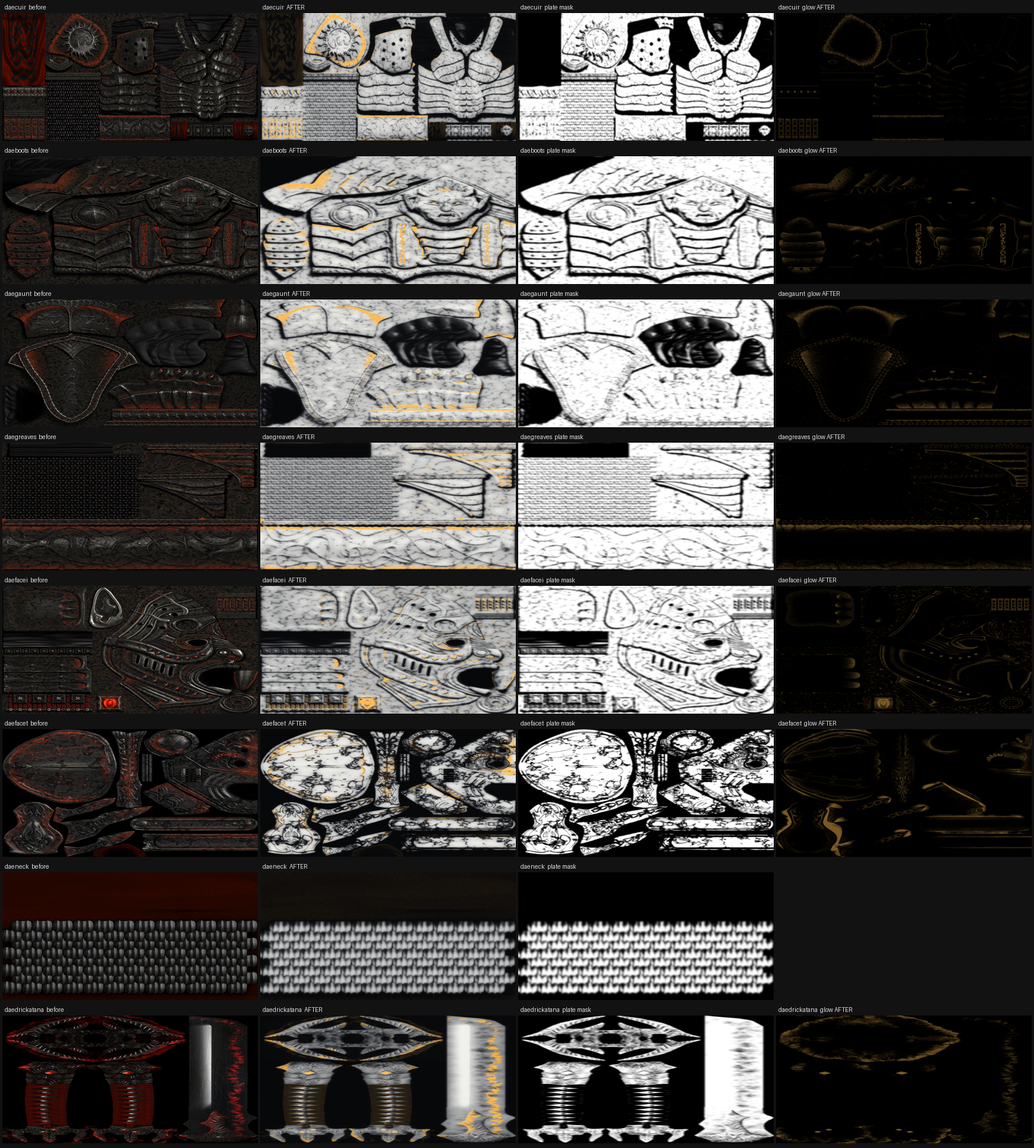
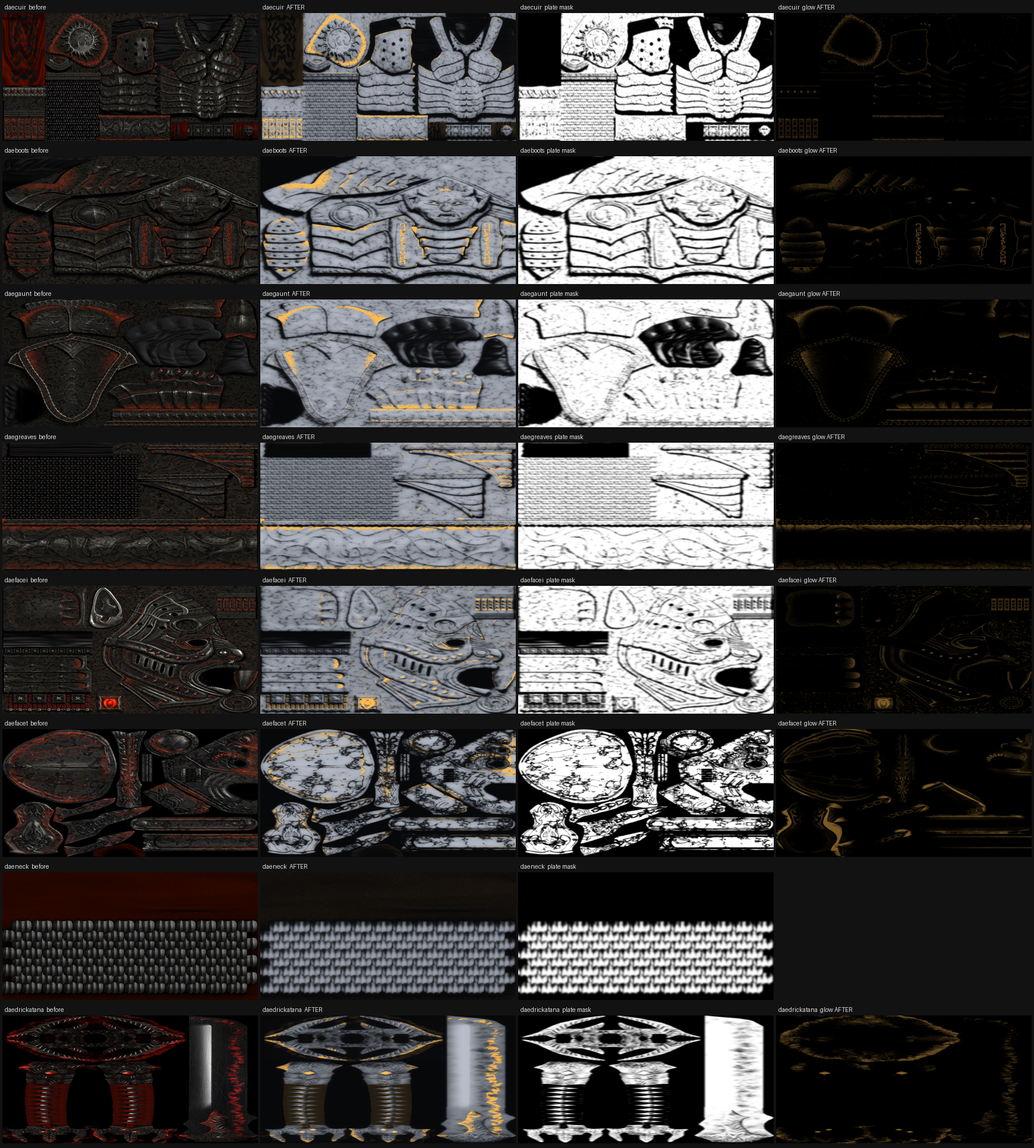
Silver rather than bone white
Faig's correction after seeing the first pass in game: the colour of
his reference render, a bit more silvery. So the plate drops from 0.95
to 0.72 and the blue channel leads, which is what separates silver from
white paint. Rendered the strip at 0.95 / 0.83 / 0.72 / 0.60 first;
this is the third, and his own pick may move it a step either way.

The ribs he asked about were already there - the abdominal segments and
the dark seams the plate mask puts between them. Nothing to add.

Changed region(s): [[0.2483, 0.0, 0.4966, 0.7453], [0.2483, 0.8075, 0.4966, 0.9938]]

diff --git a/tools/scripts/make_armour.py b/tools/scripts/make_armour.py
@@ -67,8 +67,14 @@ PIECES = ("daecuir", "daeboots", "daegaunt", "daegreaves",
 
 # The palette. Four colours and two ramps: a plate lit and a plate in shadow, a
 # mechanism lit and in shadow. Gold sits on top of whichever it lands on.
-CERAMIC = np.array([0.95, 0.95, 0.93])    # plate, lit
-CERAMIC_DARK = np.array([0.26, 0.27, 0.30])
+# Silver-grey, slightly cool. The first pass was bone white; Faig's correction
+# was the grey of his reference render, "a bit more silvery" - so the plate sits
+# a shade under mid and the blue channel leads, which is what separates silver
+# from white paint. Rendered at 0.95 / 0.83 / 0.72 / 0.60 and this is the third,
+# chosen as the closest read of that brief; his own pick may move it a step
+# either way.
+CERAMIC = np.array([0.72, 0.745, 0.79])   # plate, lit
+CERAMIC_DARK = np.array([0.19, 0.205, 0.235])
 MECH = np.array([0.16, 0.165, 0.185])     # what shows between the plates
 MECH_DARK = np.array([0.030, 0.032, 0.038])
 GOLD = np.array([1.00, 0.74, 0.32])
